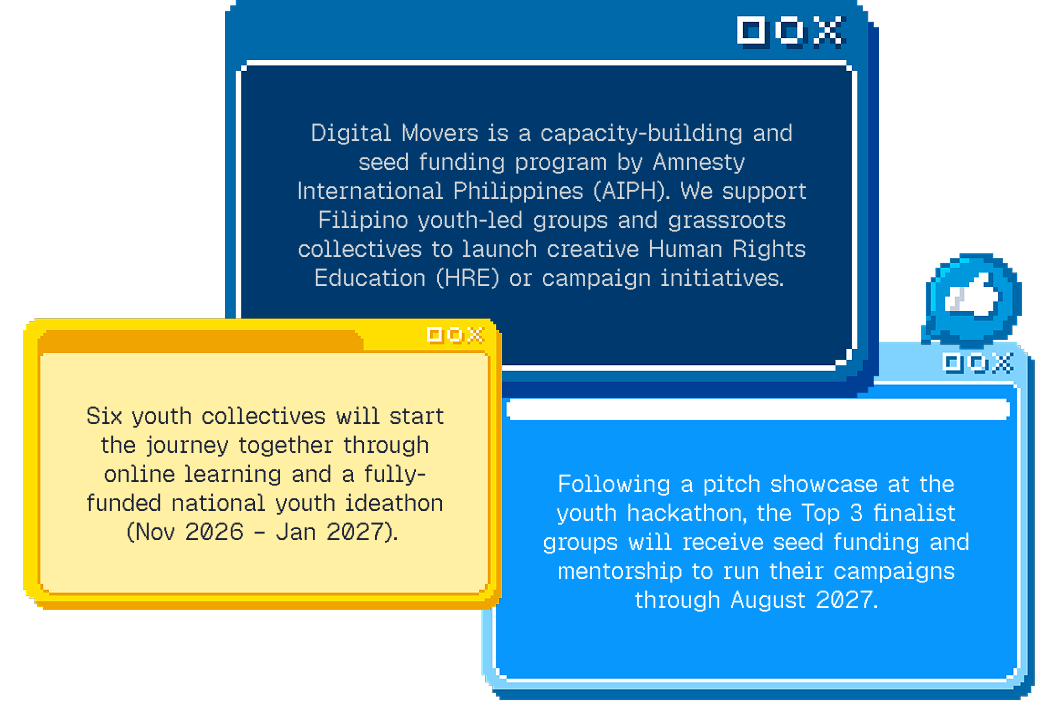
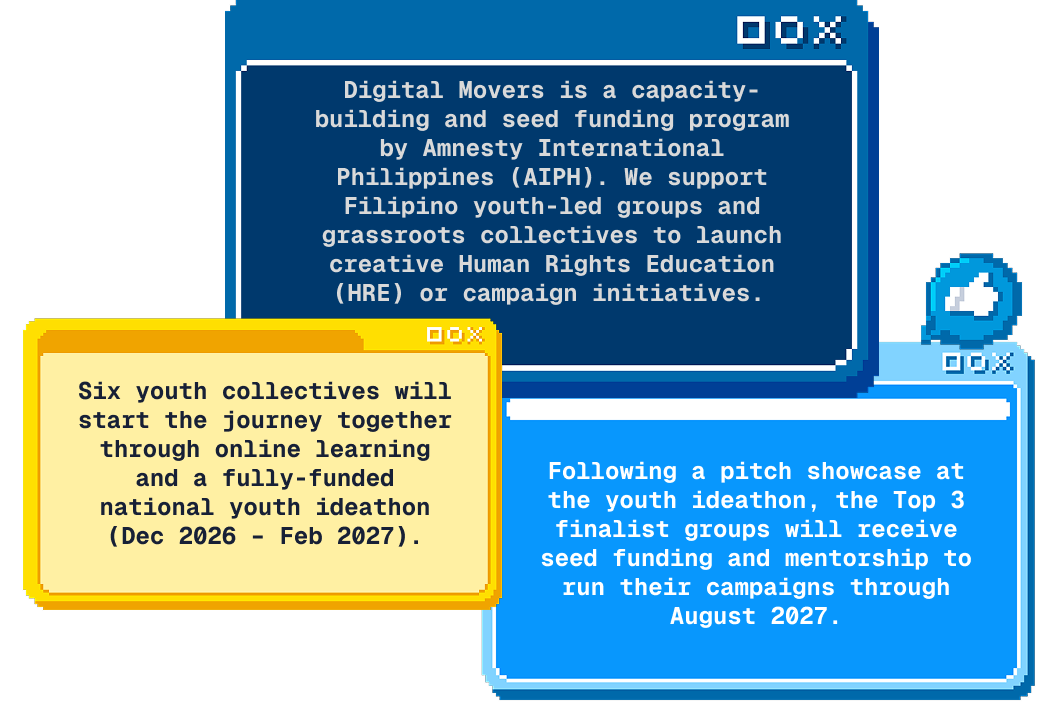
fix: change dates and font for readability

Changed region(s): [[0.2812, 0.0924, 0.7812, 0.4314], [0.5, 0.6471, 0.9375, 0.8936], [0.0625, 0.5238, 0.4375, 0.7703]]

diff --git a/src/views/LandingPage.vue b/src/views/LandingPage.vue
@@ -171,7 +171,7 @@ function activate(sign) {
       <img
         class="s2-windows"
         src="../../media/assets/group1.png"
-        alt="Digital Movers is a capacity-building and seed funding program by Amnesty International Philippines (AIPH). We support Filipino youth-led groups and grassroots collectives to launch creative Human Rights Education (HRE) or campaign initiatives. Six youth collectives will start the journey together through online learning and a fully-funded national youth hackathon (Nov 2026 - Jan 2027). Following a pitch showcase at the youth hackathon, the Top 3 finalist groups will receive seed funding and mentorship to run their campaigns through August 2027."
+        alt="Digital Movers is a capacity-building and seed funding program by Amnesty International Philippines (AIPH). We support Filipino youth-led groups and grassroots collectives to launch creative Human Rights Education (HRE) or campaign initiatives. Six youth collectives will start the journey together through online learning and a fully-funded national youth ideathon (Dec 2026 - Feb 2027). Following a pitch showcase at the youth ideathon, the Top 3 finalist groups will receive seed funding and mentorship to run their campaigns through August 2027."
       />
     </div>
 
@@ -222,7 +222,7 @@ function activate(sign) {
 
     <!-- Selection criteria actual-->
     <div class="section-panel section-criteria selection-criteria">
-            <img src="../../media/assets/bg-light.png" class="bg-light" alt="" />
+      <img src="../../media/assets/bg-light.png" class="bg-light" alt="" />
       <div class="stars-overlay"></div>
 
       <div class="left-align">
@@ -234,11 +234,7 @@ function activate(sign) {
           alt="Selected criterion details"
         />
 
-        <img
-          src="../../media/assets/chibi-motivated.png"
-          class="chibi-blue-motivated"
-          alt=""
-        />
+        <img src="../../media/assets/chibi-motivated.png" class="chibi-blue-motivated" alt="" />
 
         <img src="../../media/assets/trophy.png" class="trophy" alt="" />
       </div>
@@ -458,7 +454,7 @@ function activate(sign) {
 
 #landing-description {
   font-family: 'Geist Pixel', sans-serif;
-  font-size: clamp(1.15rem, 1.9vw, 1.75rem);
+  font-size: clamp(1.3rem, 2.2vw, 2rem);
   line-height: 1.5;
   color: #fff;
   max-width: 500px;
@@ -598,7 +594,7 @@ function activate(sign) {
   margin: 0 auto;
   max-width: 1000px;
   font-family: 'Geist Pixel', sans-serif;
-  font-size: clamp(1rem, 1.4vw, 2rem);
+  font-size: clamp(1.25rem, 1.8vw, 2.4rem);
   line-height: 1.3;
   color: #092d5d;
   text-align: center;
@@ -836,7 +832,7 @@ function activate(sign) {
   position: absolute;
   bottom: 5%;
   left: 70%;
-   height: clamp(120px, 15vw, 180px);
+  height: clamp(120px, 15vw, 180px);
   max-width: 28%;
   max-height: 32%;
   object-fit: contain;
@@ -979,7 +975,7 @@ function activate(sign) {
   justify-content: space-between;
   width: 100%;
   height: 100%;
-  
+
   gap: clamp(32px, 5vw, 64px);
   margin-top: 0;
   padding-top: 5%;
@@ -1000,7 +996,7 @@ function activate(sign) {
   will-change: transform;
 }
 
-.selection-criteria .heading{
+.selection-criteria .heading {
   margin: 0 auto 0 auto;
   text-align: center;
 }
@@ -1036,7 +1032,6 @@ function activate(sign) {
     height: clamp(320px, 65svh, 520px);
     margin-top: 24px;
     order: 1;
-  
   }
 
   .right-align .pole-container {
@@ -1045,7 +1040,6 @@ function activate(sign) {
     height: min(100%, 103vw);
   }
 }
-
 
 /* Section 4 */
 .section4 {
@@ -1068,7 +1062,7 @@ function activate(sign) {
   margin: 0;
   max-width: 900px;
   font-family: 'Geist Pixel', sans-serif;
-  font-size: clamp(1rem, 1.6vw, 1.5rem);
+  font-size: clamp(1.2rem, 2vw, 1.8rem);
   line-height: 1.4;
   color: #fff;
   text-align: center;
